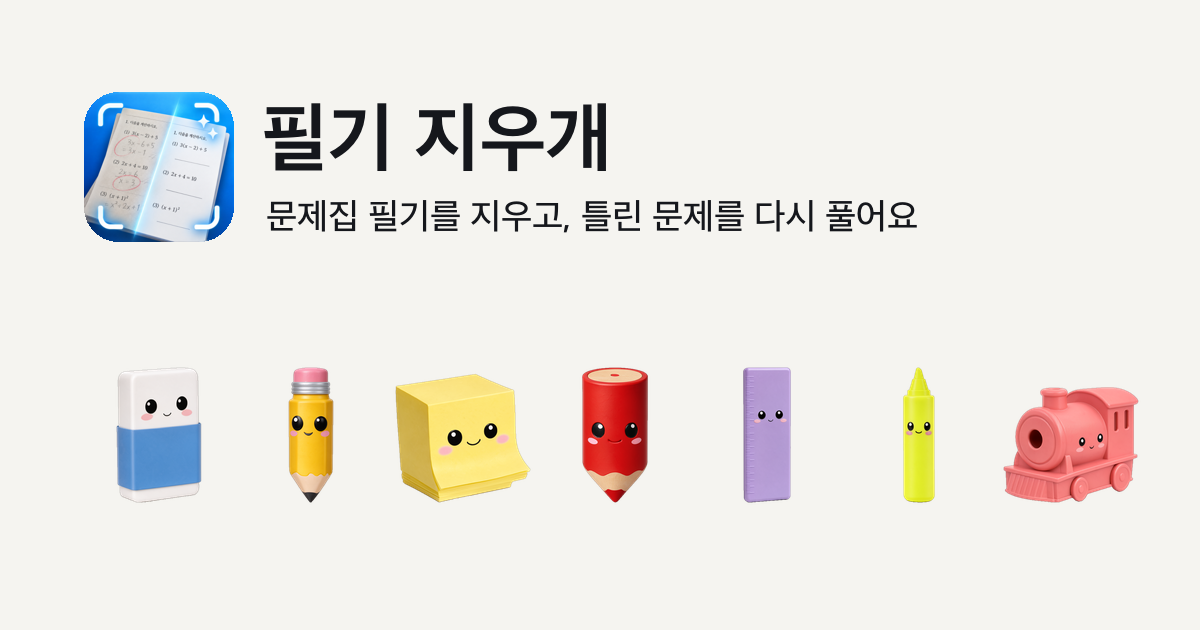
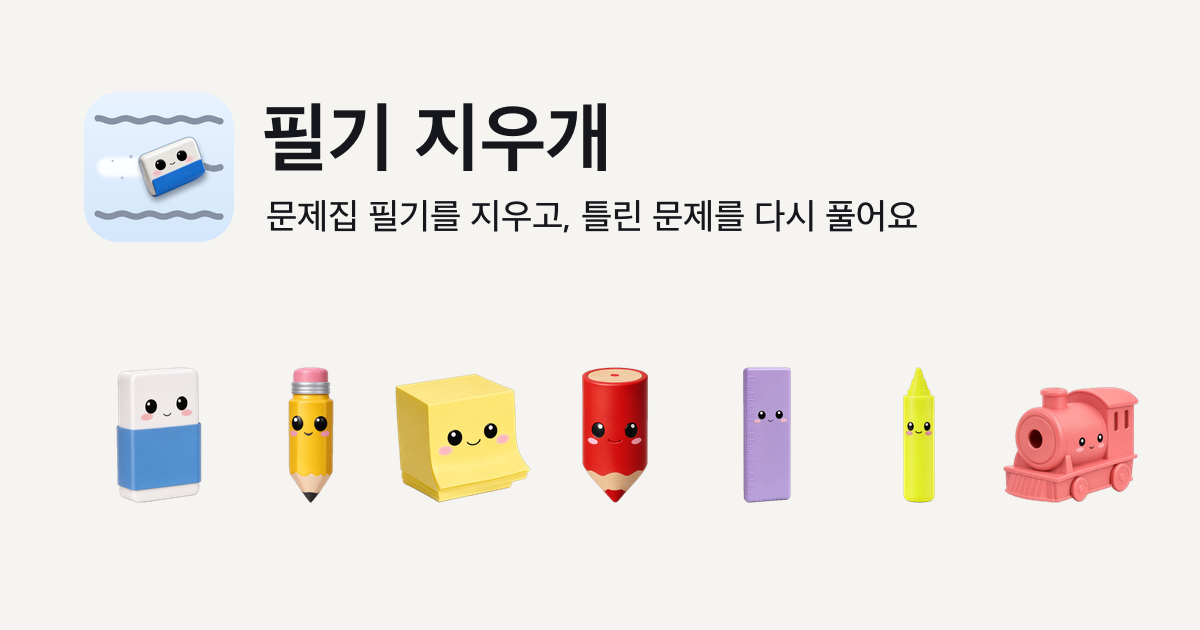
1.1.0: 개인정보 처리방침에 익명 제품 개선 통계(시행 2026-10-25), '서버 없음' 문구 정확히, 새 앱 아이콘

Changed region(s): [[0.0617, 0.1206, 0.2158, 0.3921]]

diff --git a/privacy.html b/privacy.html
@@ -3,7 +3,7 @@
 <meta charset="utf-8">
 <meta name="viewport" content="width=device-width,initial-scale=1">
 <title>필기 지우개 개인정보 처리방침</title>
-<meta name="description" content="필기 지우개는 개인정보를 수집하지 않습니다. 서버도 회원가입도 없습니다.">
+<meta name="description" content="필기 지우개는 개인정보를 수집하지 않아요. 사진은 기기 밖으로 나가지 않고, 익명의 월별 제품 개선 통계만 보내요.">
 <style>:root{--paper:#F5F4F0;--card:#FFFFFF;--ink:#15171C;--dim:rgba(21,23,28,.62);--rule:rgba(21,23,28,.10);--blue:#0A66E0}
 *{box-sizing:border-box}
 body{margin:0;background:var(--paper);color:var(--ink);
@@ -28,15 +28,25 @@ footer a{color:inherit}
 @media (prefers-color-scheme:dark){:root{--paper:#0F1013;--card:#18191D;--ink:#F2F2F4;--dim:rgba(255,255,255,.6);--rule:rgba(255,255,255,.12);--blue:#4A9AFF}}
 </style>
 </head><body><div class="wrap">
-<header><img src="icon.png" alt=""><div><h1>필기 지우개</h1><p class="sub">개인정보 처리방침 · Privacy Policy</p><p class="sub">시행일 2026년 10월 4일 · Effective October 4, 2026</p></div></header>
+<header><img src="icon.png" alt=""><div><h1>필기 지우개</h1><p class="sub">개인정보 처리방침 · Privacy Policy</p><p class="sub">시행일 2026년 10월 25일 · Effective October 25, 2026</p></div></header>
 <nav><a href="#ko">한국어</a><a href="#en">English</a><a href="./">고객 지원</a><a href="terms.html">이용약관</a></nav>
 
 <section id="ko" lang="ko">
 <h2>개인정보 처리방침</h2>
-<p class="q">수집하는 정보가 없어요</p>
-<p>필기 지우개는 이름, 이메일, 기기 정보, 사용 기록 같은 개인정보를 전혀 수집하지 않아요. 회원가입도, 분석 도구도, 광고도 없어요.</p>
+<p class="q">개인정보를 수집하지 않아요</p>
+<p>필기 지우개는 이름, 이메일, 기기·광고·설치 식별자 같은 개인정보를 수집하지 않아요. 회원가입도, 광고도 없어요. 아래의 제품 개선 통계만 개인을 알아볼 수 없는 월별 합계로 더해요.</p>
+<p class="q">제품 개선 통계</p>
+<p>무료 장 수와 구독 안내를 개선하기 위해 아래 항목의 <strong>횟수만</strong> 월별로 더해요.</p>
+<ul>
+<li>보내는 것: 앱 종류(iOS·안드로이드), 일이 일어난 달, 처음 통계를 시작할 때의 무료 사용량 구간(0장·1~3장·4~9장·소진), 단계(시작, 첫 성공, 3장·10장 도달, 소진 후 새 처리 시도, 구독 화면 표시, 구독 버튼 누름), 그 순간의 무료 사용량 구간, 처음 시작한 날부터 며칠째인지의 구간(24시간 안·1~2일·3~7일·8~30일·31일 이상).</li>
+<li>보내지 않는 것: 이름·이메일·기기·광고·설치 식별자, 사진·필기·문서 내용, 결제 영수증, 달보다 자세한 날짜와 시각. 처음 시작한 날은 기기에만 저장해요.</li>
+<li>처리: Google Firebase(Cloud Firestore 서울 리전)에 공통 카운터로만 더해요. 통계 조작을 막는 앱 검증(Firebase App Check, Apple App Attest·Google Play Integrity)에서 Apple과 Google이 검증 자료와 IP 주소 등 통신 정보를 처리하며, 이 처리는 국외에서 이뤄질 수 있어요.</li>
+<li>끄기: 앱의 설정 › 앱 정보 › 제품 개선에서 언제든 끌 수 있어요. 끄면 보내지 않은 기록은 바로 지우고, 앱 기능은 그대로 쓸 수 있어요. 구독 중에는 보내지 않아요.</li>
+<li>시간: 서버에는 달마다의 합계와 그 합계가 마지막으로 바뀐 때만 남아요. 앱은 일부러 몇 시간에서 며칠 뒤에 무작위로 보내서, 그 시각을 누군가의 이용과 이을 수 없어요.</li>
+<li>보관: 월별 합계는 개인별로 나눌 수 없으며, 서비스를 운영하는 동안 보관하고 필요 없어진 달은 지워요. 보내지 못한 기록은 기기에서 30일이 지나면 지워요.</li>
+</ul>
 <p class="q">사진은 이 기기 안에서만 처리돼요</p>
-<p>찍거나 불러온 사진과 결과는 휴대폰(iPhone 또는 안드로이드) 안에서만 처리하고 보관해요. 앱에는 서버가 없어서 사진이 외부로 전송되지 않아요.</p>
+<p>찍거나 불러온 사진과 결과는 휴대폰(iPhone 또는 안드로이드) 안에서만 처리하고 보관해요. 사진을 처리하는 서버는 없어서 사진은 기기 밖으로 나가지 않아요. 밖으로 보내는 것은 위의 익명 월별 통계뿐이에요.</p>
 <p class="q">보관과 삭제</p>
 <p>작업 중인 사진은 직접 삭제하기 전까지 기기에 남아 있어요. 앱의 '전체 삭제'를 누르거나 앱을 지우면 함께 삭제돼요. 오답 노트에 담은 문제와 보관한 노트는 직접 지우거나 앱을 지울 때 삭제돼요. 앨범에 저장하거나 인쇄, 공유한 파일은 선택한 곳에 그대로 남아요.</p>
 <p class="q">접근 권한</p>
@@ -44,7 +54,7 @@ footer a{color:inherit}
 <p class="q">결제</p>
 <p>구독 결제는 iPhone 에서는 Apple(App Store), 안드로이드에서는 Google(Google Play)이 처리해요. 개발자는 이름, 이메일, 결제 정보를 받지 않고, 스토어가 제공하는 익명의 판매 통계만 볼 수 있어요.</p>
 <p class="q">어린이</p>
-<p>필기 지우개는 보호자를 위한 앱이며, 어린이를 포함한 누구의 정보도 수집하지 않아요.</p>
+<p>필기 지우개는 보호자를 위한 앱이며, 어린이를 포함한 누구의 개인정보도 수집하지 않아요.</p>
 <p class="q">변경</p>
 <p>이 방침이 바뀌면 새 시행일과 함께 이 페이지에 알려 드려요.</p>
 <p class="q">문의</p>
@@ -53,10 +63,20 @@ footer a{color:inherit}
 
 <section id="en" lang="en">
 <h2>Privacy Policy</h2>
-<p class="q">We collect nothing</p>
-<p>Handwriting Eraser collects no personal information: no name, email, device information or usage data. There are no accounts, no analytics and no ads.</p>
+<p class="q">No personal information</p>
+<p>Handwriting Eraser collects no personal information: no name, email, or device, advertising or install identifiers. There are no accounts and no ads. Only the product-improvement statistics below are added up as anonymous monthly totals.</p>
+<p class="q">Product-improvement statistics</p>
+<p>To improve the free allowance and subscription guidance, we only add up <strong>counts</strong> per month.</p>
+<ul>
+<li>Sent: the app type (iOS or Android), the month it happened, the free-page band when statistics first started (0, 1–3, 4–9, used up), the stage (start, first success, reaching 3 and 10 pages, trying a new page after the free pages are used up, seeing the subscription screen, tapping subscribe), the free-page band at that moment, and the days since statistics first started (within the first 24 hours, 1–2, 3–7, 8–30, 31 or more).</li>
+<li>Never sent: names, emails, device, advertising or install identifiers, photos, handwriting or document content, payment receipts, or any date or time finer than the month. The first-start day stays on the device.</li>
+<li>Processing: counts are added to shared counters in Google Firebase (Cloud Firestore, Seoul region). App verification against tampering (Firebase App Check with Apple App Attest or Google Play Integrity) means Apple and Google process verification data and connection information such as IP addresses, possibly outside Korea.</li>
+<li>Turning it off: Settings › About › Product improvement in the app, any time. Unsent records are deleted at once and every feature keeps working. Nothing is sent while you are subscribed.</li>
+<li>Timing: The server keeps only each monthly total and when it last changed. The app deliberately sends hours to days later, at random, so that time cannot be tied to anyone's use.</li>
+<li>Retention: monthly totals cannot be split back into individuals; they are kept while the service runs and months no longer needed are deleted. Unsent records are deleted from the device after 30 days.</li>
+</ul>
 <p class="q">Photos stay on your device</p>
-<p>Photos you take or import and their results are processed and stored only on your phone (iPhone or Android). The app has no server, so nothing is sent anywhere.</p>
+<p>Photos you take or import and their results are processed and stored only on your phone (iPhone or Android). There is no server that processes photos, so photos never leave your device. The only thing sent is the anonymous monthly statistics above.</p>
 <p class="q">Storage and deletion</p>
 <p>Pages in progress stay on your device until you delete them. Tapping Clear all in the app, or deleting the app, removes them. Problems in your Wrong-Answer Note and your saved notes stay until you delete them or delete the app. Files you save, print or share stay where you put them.</p>
 <p class="q">Permissions</p>
@@ -64,7 +84,7 @@ footer a{color:inherit}
 <p class="q">Payments</p>
 <p>Subscriptions are processed by Apple (App Store) on iPhone and by Google (Google Play) on Android. The developer never receives your name, email or payment details, only anonymous aggregate sales figures from the store.</p>
 <p class="q">Children</p>
-<p>Handwriting Eraser is made for parents and collects no data from anyone, including children.</p>
+<p>Handwriting Eraser is made for parents and collects no personal information from anyone, including children.</p>
 <p class="q">Changes</p>
 <p>If this policy changes, the new text will appear on this page with a new date.</p>
 <p class="q">Contact</p>

diff --git a/index.html b/index.html
@@ -3,7 +3,7 @@
 <meta charset="utf-8">
 <meta name="viewport" content="width=device-width,initial-scale=1">
 <title>필기 지우개 고객 지원</title>
-<meta name="description" content="필기 지우개 고객 지원. 문제집 사진에서 연필과 색펜 필기를 지우고 인쇄된 내용만 남겨 주는 앱입니다.">
+<meta name="description" content="필기 지우개 고객 지원. 문제집 사진에서 연필과 색연필 필기를 지우고 인쇄된 내용만 남겨 주는 앱입니다.">
 <style>:root{--paper:#F5F4F0;--card:#FFFFFF;--ink:#15171C;--dim:rgba(21,23,28,.62);--rule:rgba(21,23,28,.10);--blue:#0A66E0}
 *{box-sizing:border-box}
 body{margin:0;background:var(--paper);color:var(--ink);
@@ -46,7 +46,7 @@ footer a{color:inherit}
 <p class="q">구독을 해지하거나 복원하려면요?</p>
 <p>앱의 <strong>설정 &gt; 구독 관리</strong>에서 해지할 수 있어요. iPhone의 <strong>설정 &gt; 내 이름 &gt; 구독</strong>, 안드로이드의 <strong>Google Play &gt; 프로필 &gt; 결제 및 정기 결제 &gt; 정기 결제</strong>에서도 할 수 있어요. 기기를 바꿨다면 <strong>설정 &gt; 구매 내역 복원</strong>을 눌러 주세요.</p>
 <p class="q">사진이 서버로 전송되나요?</p>
-<p>아니요. 모든 처리는 휴대폰 안에서 이뤄지고, 앱에는 서버도 회원가입도 없어요. 자세한 내용은 <a href="privacy.html">개인정보 처리방침</a>에 있어요.</p>
+<p>아니요. 사진은 휴대폰 안에서만 처리되고 밖으로 나가지 않아요. 사진을 처리하는 서버도, 회원가입도 없어요. 밖으로 보내는 것은 익명의 월별 제품 개선 통계뿐이고 설정에서 끌 수 있어요. 자세한 내용은 <a href="privacy.html">개인정보 처리방침</a>에 있어요.</p>
 <p class="q">화면 캡처가 되지 않아요.</p>
 <p>앱 화면은 캡처와 화면 녹화에 담기지 않아요. 결과는 <strong>인쇄·저장</strong>에서 인쇄하거나 PDF, 앨범으로 저장할 수 있어요.</p>
 <p class="q">그 밖의 문제가 있어요.</p>
@@ -66,7 +66,7 @@ footer a{color:inherit}
 <p class="q">Cancel or restore a subscription</p>
 <p>Use <strong>Settings &gt; Manage subscription</strong> in the app, iPhone <strong>Settings &gt; your name &gt; Subscriptions</strong>, or on Android <strong>Google Play &gt; Profile &gt; Payments &amp; subscriptions &gt; Subscriptions</strong>. On a new device, tap <strong>Settings &gt; Restore purchases</strong>.</p>
 <p class="q">Are my photos uploaded?</p>
-<p>No. Everything is processed on your phone. There is no server and no account. See the <a href="privacy.html">privacy policy</a>.</p>
+<p>No. Photos are processed only on your phone and never leave it. There is no server that processes photos and no account. The only thing sent is anonymous monthly product-improvement statistics, which you can turn off in Settings. See the <a href="privacy.html">privacy policy</a>.</p>
 <p class="q">Screenshots come out blank.</p>
 <p>The app's screens are excluded from screenshots and screen recordings by design. Print or save results from <strong>Print · Save</strong>.</p>
 <p class="q">Something else is wrong.</p>

diff --git a/terms.html b/terms.html
@@ -33,7 +33,7 @@ footer a{color:inherit}
 <section id="ko" lang="ko">
 <h2>이용약관</h2>
 <p class="q">서비스</p>
-<p>필기 지우개는 문제집 사진에서 연필과 색펜 필기를 지우고 인쇄된 내용을 남겨 주는 앱이에요. 모든 처리는 이 기기 안에서 이뤄지고, 회원가입이나 서버가 없어요.</p>
+<p>필기 지우개는 문제집 사진에서 연필과 색연필 필기를 지우고 인쇄된 내용을 남겨 주는 앱이에요. 사진 처리는 모두 이 기기 안에서 이뤄지고 사진은 기기 밖으로 나가지 않아요. 회원가입이나 사진을 처리하는 서버는 없어요. 익명의 월별 제품 개선 통계만 보내며, 설정에서 끌 수 있어요.</p>
 <p class="q">무료 이용과 구독</p>
 <p>처음 10장은 무료로 지울 수 있어요. 그 뒤에는 월간 또는 연간 구독으로 장 수 제한 없이 이용할 수 있어요. 결과를 편집하거나(iPhone) 인쇄·저장하는 것은 언제나 무료예요.</p>
 <p class="q">결제와 자동 갱신</p>
@@ -53,7 +53,7 @@ footer a{color:inherit}
 <section id="en" lang="en">
 <h2>Terms of Use</h2>
 <p class="q">The service</p>
-<p>Handwriting Eraser removes pencil and pen handwriting from photos of workbook pages and keeps the printed content. Everything is processed on this device. There is no account and no server.</p>
+<p>Handwriting Eraser removes pencil and pen handwriting from photos of workbook pages and keeps the printed content. Photos are processed only on this device and never leave it. There is no account and no server that processes photos. Only anonymous monthly product-improvement statistics are sent, and you can turn them off in Settings.</p>
 <p class="q">Free use and subscription</p>
 <p>Your first 10 pages are free. After that, a monthly or yearly subscription lets you erase without page limits. Touching up (iPhone), printing and saving results are always free.</p>
 <p class="q">Payment and auto-renewal</p>

diff --git a/README.md b/README.md
@@ -2,7 +2,11 @@
 
 App Store·Google Play 가 요구하는 지원 URL 과 개인정보 처리방침 URL 용 정적 페이지 (iPhone·안드로이드 공용).
 
-- 고객 지원: https://seungbinbaik.github.io/handwriting-eraser-support/
-- 개인정보 처리방침: https://seungbinbaik.github.io/handwriting-eraser-support/privacy.html
+- 고객 지원: https://eraser.edureserve.com/ (10-25부터 사용자 도메인 — 옛 github.io 주소는 GitHub 가 301 로 넘긴다)
+- 개인정보 처리방침: https://eraser.edureserve.com/privacy.html
+- 친구에게 알려 주기·자랑하기 링크: https://eraser.edureserve.com/i/?c=<어디서> — 기기에 맞는 스토어로만 보낸다 (iOS App Store,
+  안드로이드 Play 에 `utm_source=invite&utm_campaign=<어디서>`, PC 는 두 스토어 단추). 링크에 사람·기기 정보 없음.
+- 도메인: Cloudflare DNS(edureserve.com) `CNAME eraser → seungbinbaik.github.io`, **프록시 끔**(켜면 GitHub 인증서 갱신이 막힌다).
+  저장소 루트의 `CNAME` 파일을 빼고 올리면 사용자 도메인이 풀려 공유한 링크가 모두 깨진다.
 
 앱은 이 페이지를 실행 중에 불러오지 않는다 (서버 없음). 원본은 앱 저장소의 `docs/public/`.
